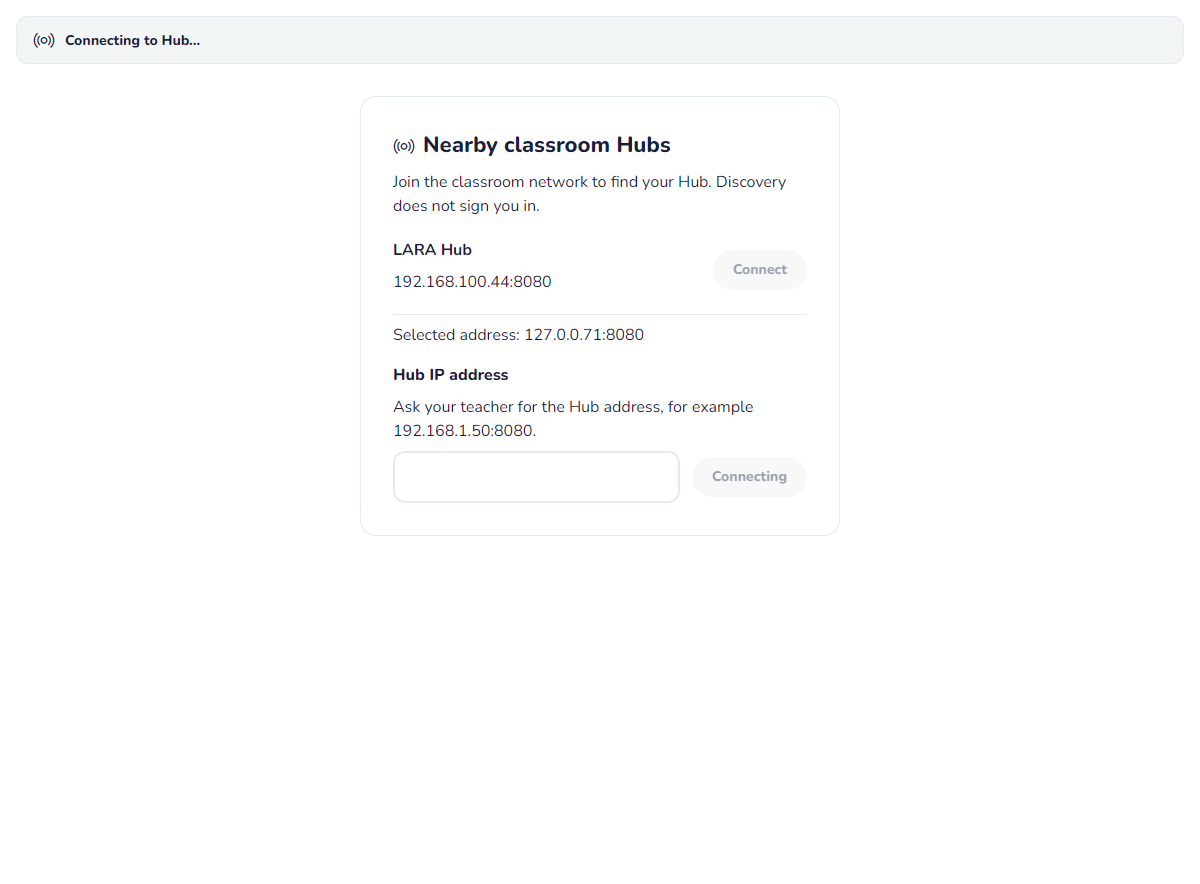
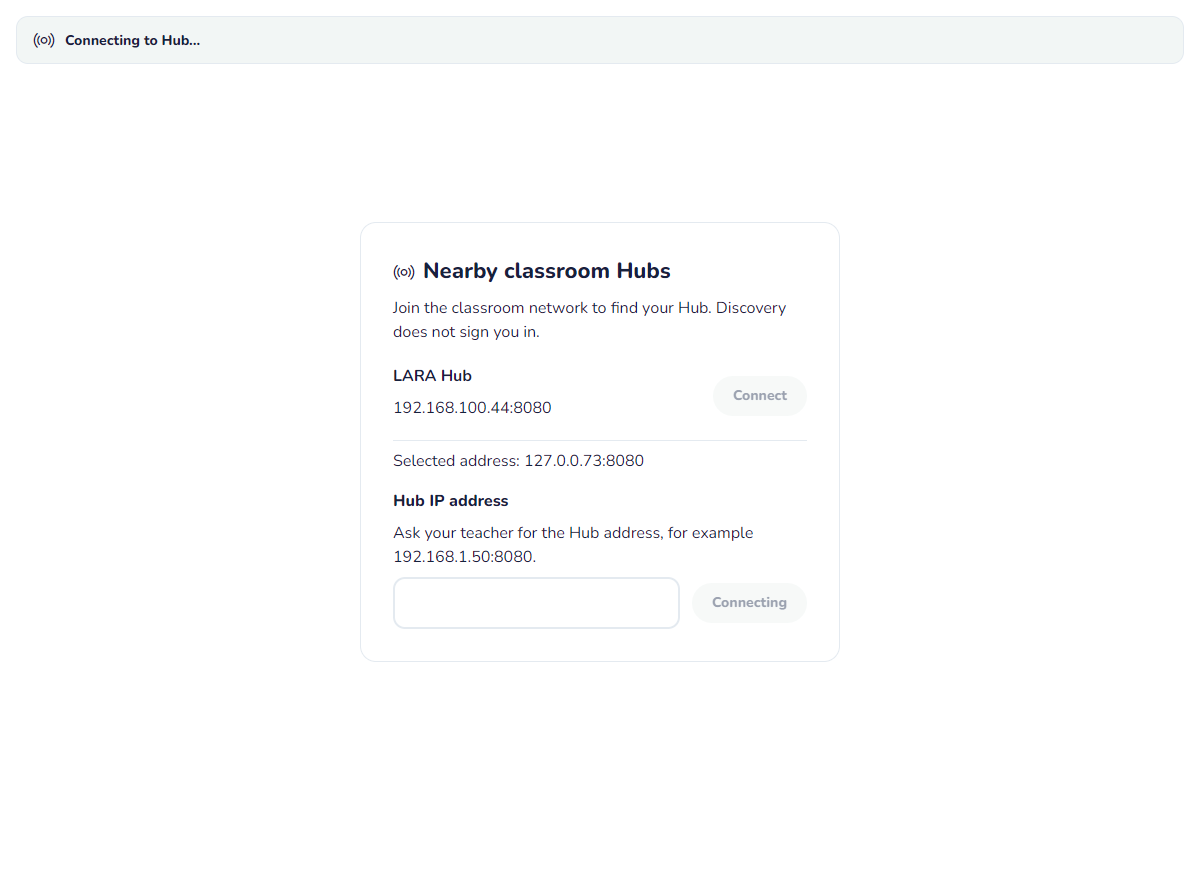
fix(desktop): center startup Hub card across window proportions

diff --git a/desktop/src/index.css b/desktop/src/index.css
@@ -101,7 +101,9 @@ button:disabled { cursor: default; }
 .auth-shell .shell-body { display: block; min-height: 100vh; }
 .auth-shell .content-sheet { border: 0; border-radius: 0; }
 .auth-shell .content-wrap { max-width: none; padding: 16px; }
-.startup-connection { max-width: 480px; margin: 32px auto; }
+.auth-shell .content-wrap:has(> .startup-connection) { min-height: 100vh; box-sizing: border-box; display: grid; grid-template-rows: minmax(max-content, 1fr) auto 1fr; row-gap: 16px; }
+.auth-shell .content-wrap:has(> .startup-connection) > .hub-status-banner { align-self: start; margin-bottom: 0; }
+.startup-connection { grid-row: 2; width: 100%; max-width: 480px; margin: 0 auto; }
 .startup-connection .discovery-panel { margin: 0; padding: 32px; }
 .auth-panel { width: 100%; max-width: 480px; box-sizing: border-box; margin: 32px auto; padding: 32px; border: 1px solid var(--color-lara-border); border-radius: 16px; background: white; }
 .auth-heading { display: flex; flex-direction: column; align-items: flex-start; gap: 16px; }

diff --git a/desktop/docs/login-shell-369.md b/desktop/docs/login-shell-369.md
@@ -18,7 +18,7 @@ Native Windows Tauri test used the changed frontend and unchanged native source 
 
 - With Hub stopped and a new uncached context: connection screen, no credentials or app navigation. Restart the same real Hub: the screen advances to standalone sign-in automatically. Six-digit teacher sign-in fetches the actual synthetic class.
 - Sign-in, registration layout, invalid four-digit input, keyboard ID→PIN focus, account switching/Cancel, Home without archives and Settings Hub picker: pass.
-- The startup selector is centered at 480px maximum width, matching the login card. Its 720×480 layout has no horizontal overflow. Login at 720×480 emulated viewport and 200% root text: no horizontal overflow in login; fields remain reachable by scrolling. At the small viewport, keyboard Enter toggles the menu and Settings Hub controls remain reachable.
+- The startup selector is centered horizontally and vertically at 480px maximum width, matching the login card. Native bounds checks pass at 1200×884, 800×1200, 900×900 and 1600×700; at 720×480 and 200% text, content remains reachable by scrolling rather than clipping. Its 720×480 layout has no horizontal overflow. Login at 720×480 emulated viewport and 200% root text: no horizontal overflow in login; fields remain reachable by scrolling. At the small viewport, keyboard Enter toggles the menu and Settings Hub controls remain reachable.
 - Stop Hub, fully exit/relaunch native app: cached class still opens offline. The normal close request did not finish within five seconds; the verified isolated test process was then terminated and relaunched. No installed production app or user database was modified.
 
 ## Evidence
